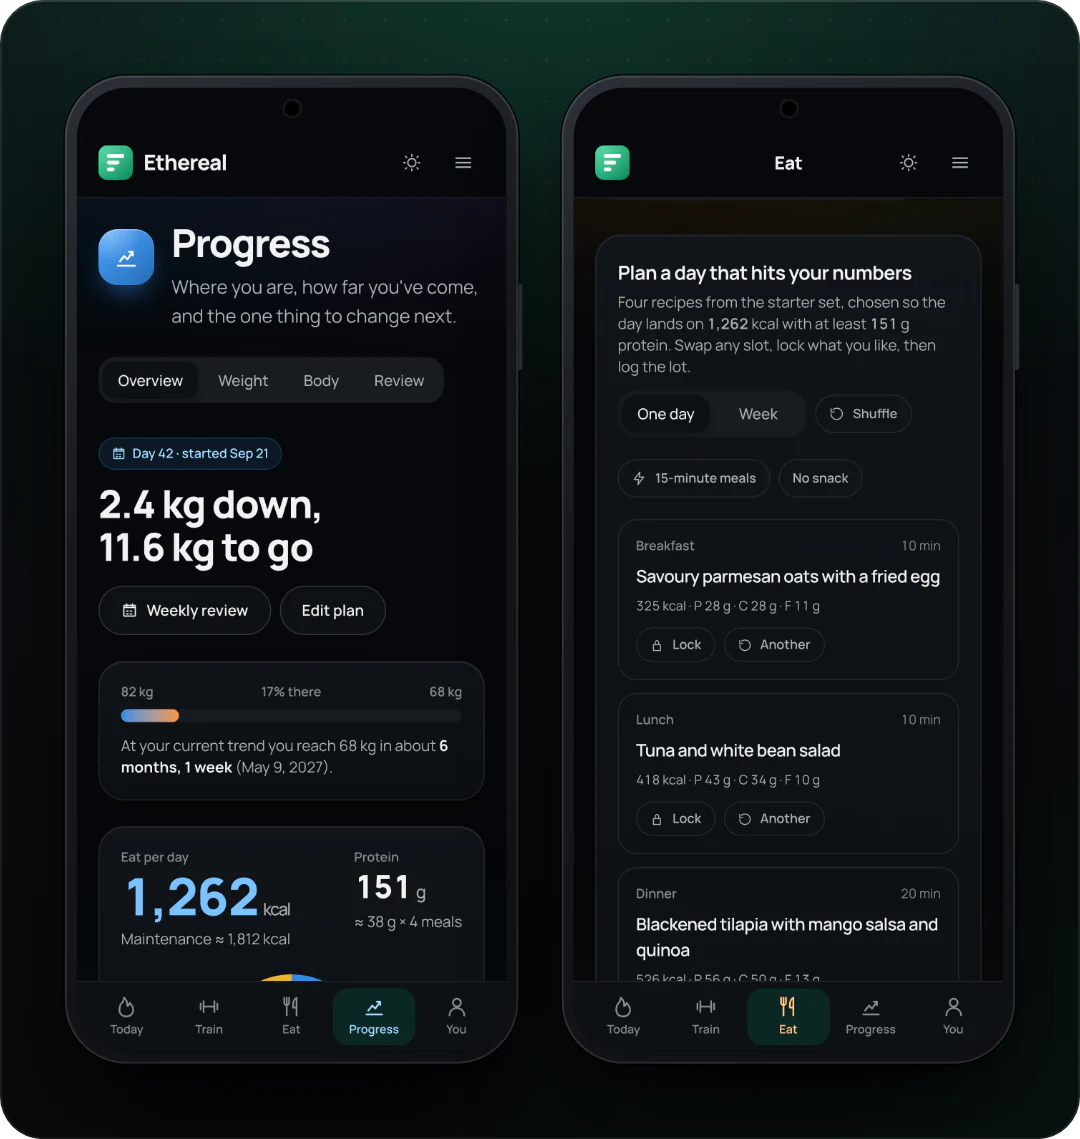
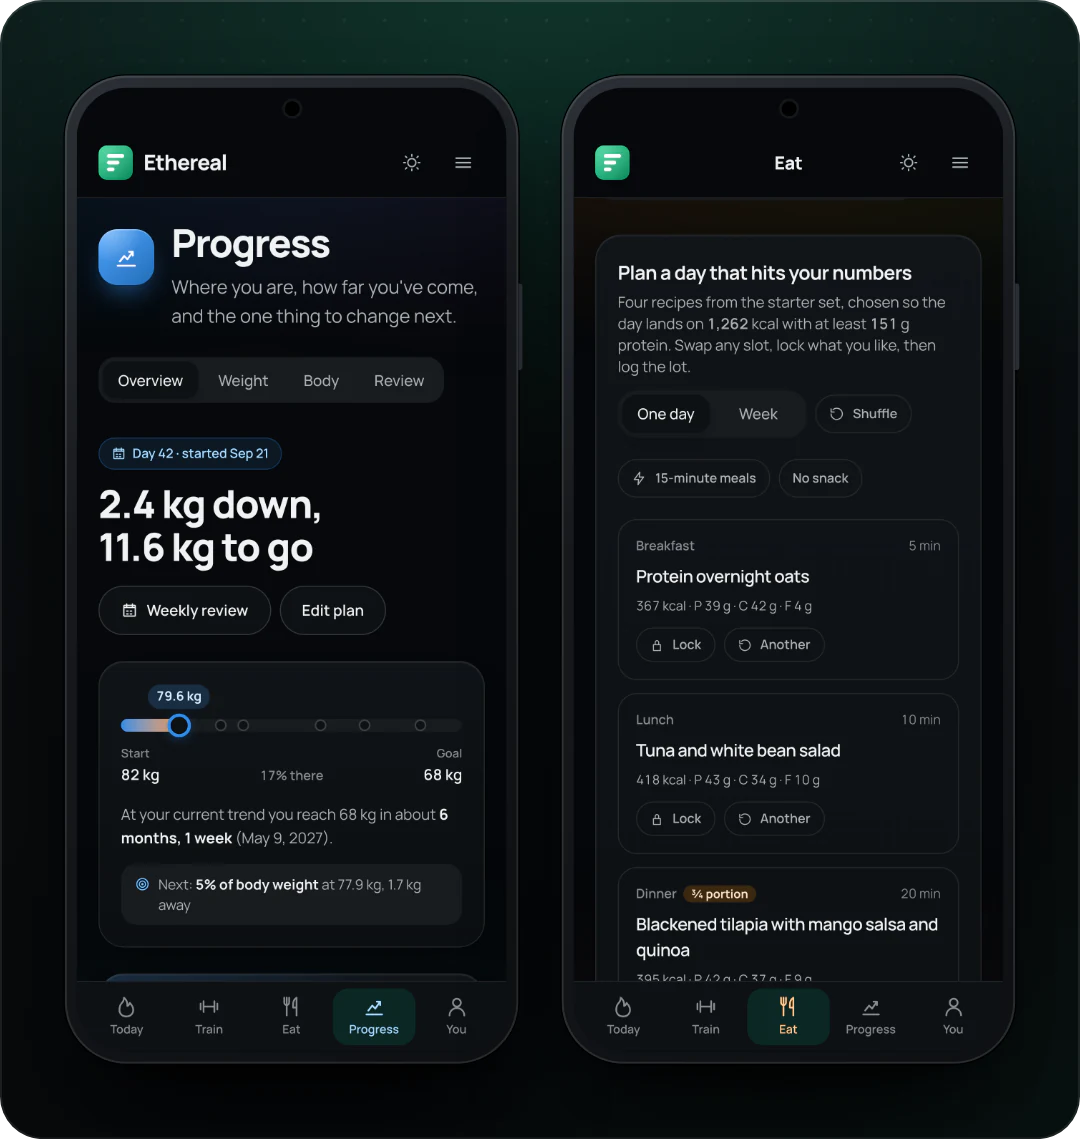
README: fresh screens and the newest features
Regenerated the README images so they show the reshaped Progress (the
journey, the next move), the calmer meal cards and the current Today.
The feature list mentions your usual meals, Undo, the next move and the
planner's portions.

Claude-Session: https://claude.ai/code/session_01GyztRj6Jw5HwqMksHqf4CU

diff --git a/README.md b/README.md
@@ -63,7 +63,7 @@ Type what you ate in plain words, scan a barcode, or search 1,474 foods that wor
 
 - **Plain-language entry.** "2 eggs, a slice of toast and 150g greek yogurt" becomes three logged foods in one tap.
 - **Barcodes.** Packaged products come from Open Food Facts, with Nutri-Score and NOVA grades.
-- **Shortcuts that add up.** Saved meals, favourites, copy yesterday, and a suggestion for what fits next.
+- **Shortcuts that add up.** Your usual for each meal at your usual amount, saved meals, favourites, copy yesterday, and a suggestion for what fits next. Removed something by mistake? Undo.
 
 <picture>
   <source media="(max-width: 700px)" srcset="docs/readme/diary-mobile.webp" />
@@ -76,11 +76,12 @@ A few questions give you a calorie target, protein, macros and a realistic goal 
 
 - **It learns your real burn.** After a few weeks it measures your actual expenditure from what you ate and how your trend moved.
 - **Every two weeks, one decision.** It compares your real rate with the plan and recommends one specific, capped calorie change.
-- **A day planner that hits your numbers.** It picks four recipes that land on your calories and protein. Swap or lock any slot, then log the lot.
+- **One next move.** Progress opens on where you are and the single change most worth making, or tells you to change nothing.
+- **A day planner that hits your numbers.** It picks four recipes, at the portions that land on your calories and protein. Swap or lock any slot, then log the lot.
 
 <picture>
   <source media="(max-width: 700px)" srcset="docs/readme/plan-mobile.webp" />
-  <img src="docs/readme/plan.webp" width="100%" alt="The plan dashboard on a desktop browser with progress toward the goal and the daily targets, and the day planner on a phone." />
+  <img src="docs/readme/plan.webp" width="100%" alt="Progress on a desktop browser: the journey from start to goal with milestones on the line, the one next move, the trend chart and the daily targets; and the day planner on a phone." />
 </picture>
 
 ## See the trend, not the noise
